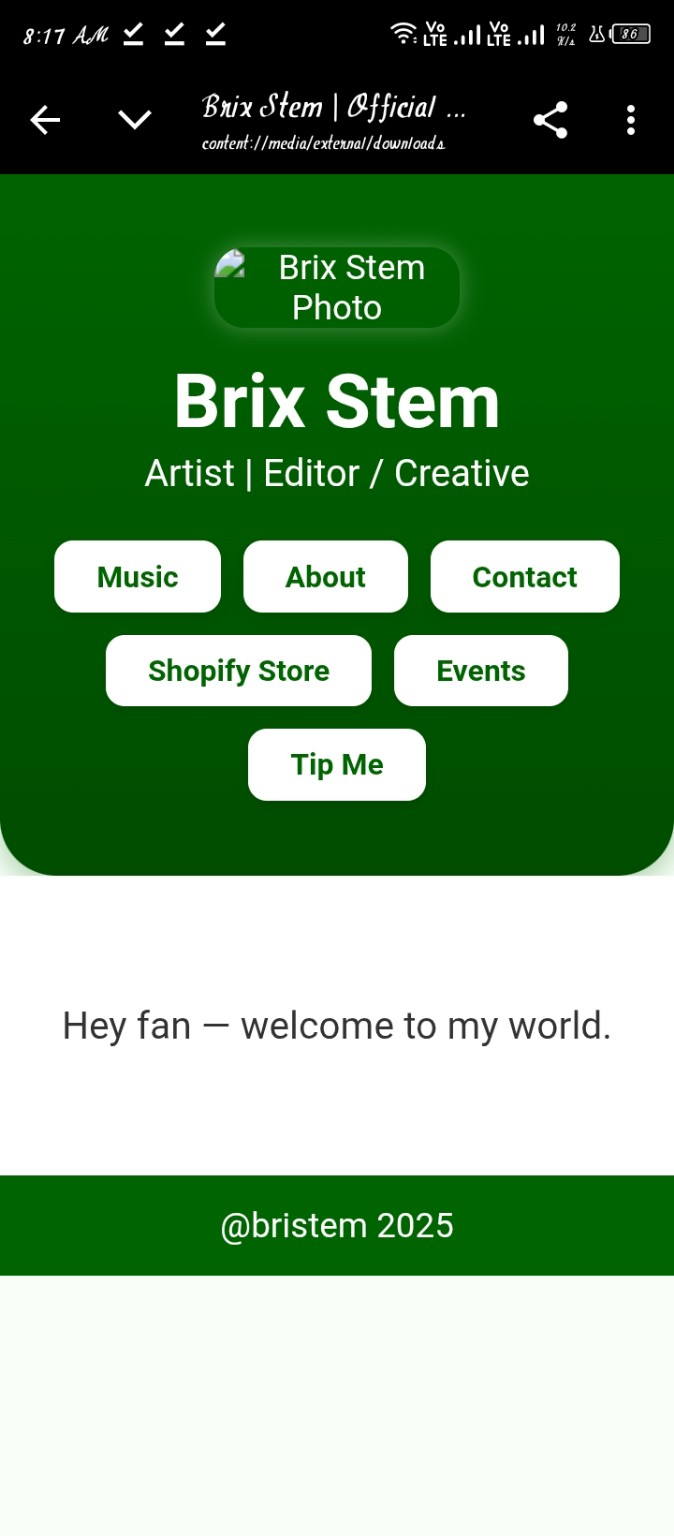
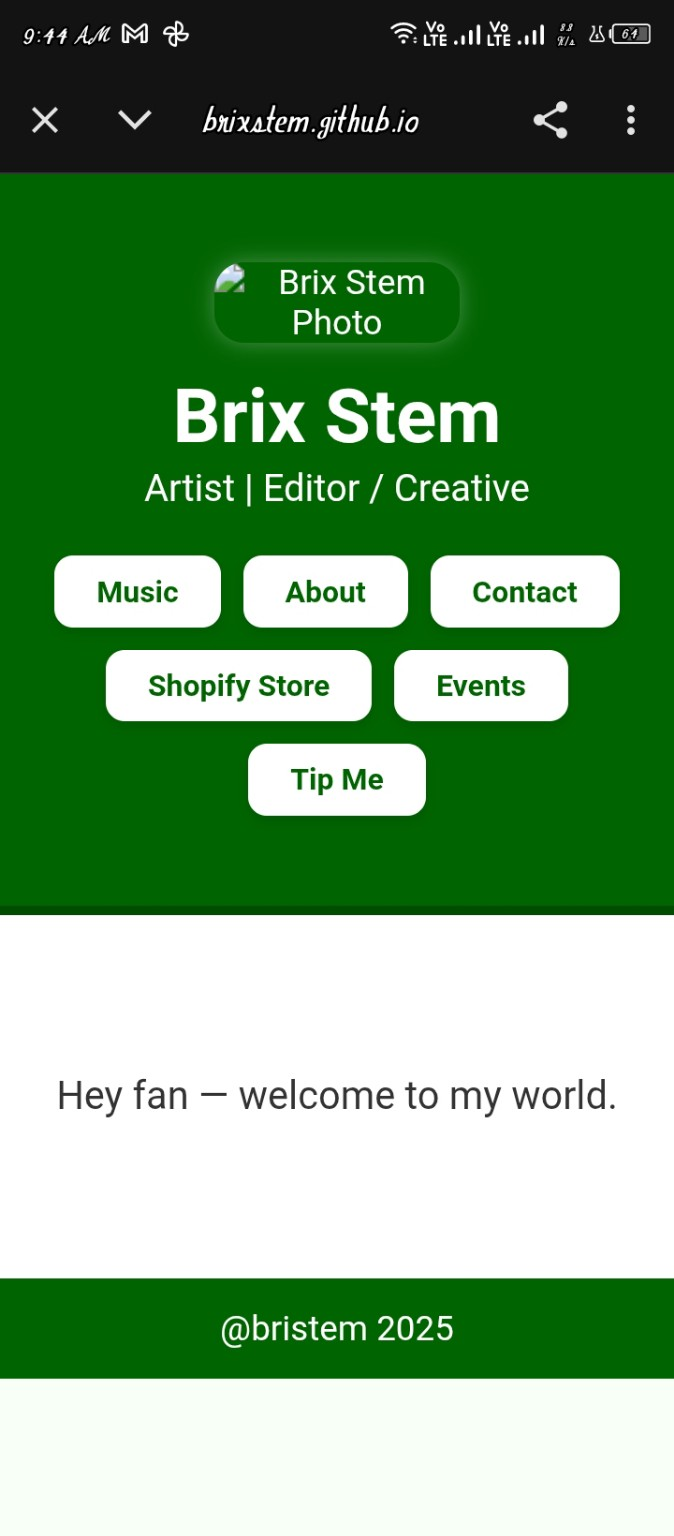
Add files via upload

diff --git a/index.html b/index.html
@@ -8,88 +8,78 @@
   <style>
     body {
       margin: 0;
-      font-family: 'Segoe UI', Tahoma, Geneva, Verdana, sans-serif;
-      background-color: #f7fff7;
-      color: #1b1b1b;
+      font-family: Arial, sans-serif;
+      background-color: #f3fff3;
     }
-    header {
-      background: #006400;
-      color: white;
-      text-align: center;
-      padding: 3rem 1rem;
-      border-bottom: 5px solid #004d00;
-    }
-    header img {
-      width: 170px;
-      height: auto;
-      border-radius: 16px;
-      box-shadow: 0 0 12px rgba(255, 255, 255, 0.3);
-    }
-    h1 {
-      font-size: 2.5rem;
-      margin: 1rem 0 0.2rem 0;
-    }
-    h2 {
-      font-weight: normal;
-      margin: 0 0 1.5rem 0;
-      font-size: 1.2rem;
-    }
-    .nav-links {
-      display: flex;
-      flex-wrap: wrap;
-      justify-content: center;
-      gap: 0.75rem;
-      margin-top: 1.5rem;
-    }
-    .nav-links a {
-      padding: 0.6rem 1.4rem;
-      background-color: white;
-      color: #006400;
-      border: none;
-      border-radius: 10px;
-      font-weight: bold;
-      text-decoration: none;
-      box-shadow: 0 3px 6px rgba(0,0,0,0.1);
-      transition: 0.3s;
-    }
-    .nav-links a:hover {
-      background-color: #004d00;
-      color: white;
-    }
-    .main-body {
-      background-color: white;
-      text-align: center;
-      padding: 4rem 1rem;
-      font-size: 1.3rem;
-      color: #333;
-    }
-    footer {
+    .header {
       background-color: #006400;
       color: white;
       text-align: center;
-      padding: 1rem;
+      padding: 20px;
+      border-bottom-left-radius: 40px;
+      border-bottom-right-radius: 40px;
+    }
+    .profile-pic {
+      width: 100px;
+      height: 100px;
+      object-fit: cover;
+      border-radius: 50%;
+      box-shadow: 0 0 15px #004d00;
+      margin-bottom: 10px;
+    }
+    h1 {
+      margin: 10px 0 5px;
+    }
+    .subhead, .tagline {
+      margin: 5px 0;
+    }
+    .buttons {
+      margin: 20px auto;
+      display: flex;
+      flex-wrap: wrap;
+      justify-content: center;
+      gap: 15px;
+    }
+    .buttons a {
+      background-color: white;
+      color: #006400;
+      text-decoration: none;
+      padding: 10px 20px;
+      border-radius: 10px;
+      font-weight: bold;
+      box-shadow: 0 2px 5px rgba(0,0,0,0.1);
+    }
+    .intro {
+      padding: 30px 20px;
+      text-align: center;
+      font-size: 18px;
+    }
+    .footer {
+      background-color: #006400;
+      color: white;
+      text-align: center;
+      padding: 15px;
+      font-size: 16px;
     }
   </style>
 </head>
 <body>
-  <header>
-    <img src="images/brix-photo.jpg" alt="Brix Stem Photo" />
+  <div class="header">
+    <img src="brix-photo.jpg" alt="Brix Stem Photo" class="profile-pic">
     <h1>Brix Stem</h1>
-    <h2>Artist | Editor / Creative</h2>
-    <div class="nav-links">
+    <p class="tagline">A Gen Z artist, video editor & creative from Kenya</p>
+    <div class="buttons">
       <a href="music.html">Music</a>
       <a href="about.html">About</a>
       <a href="contact.html">Contact</a>
-      <a href="shop.html">Shopify Store</a>
-      <a href="events.html">Events</a>
-      <a href="tipme.html">Tip Me</a>
+      <a href="#">Shopify Store</a>
+      <a href="#">Events</a>
+      <a href="tip.html">Tip Me</a>
     </div>
-  </header>
-  <section class="main-body">
-    <p>Hey fan — welcome to my world.</p>
-  </section>
-  <footer>
-    @bristem 2025
-  </footer>
+  </div>
+  <div class="intro">
+    <em>Hey fan! Real vibes. Pure talent.<br>You’re right where the magic begins.</em>
+  </div>
+  <div class="footer">@brixstem 2025</div>
 </body>
 </html>
